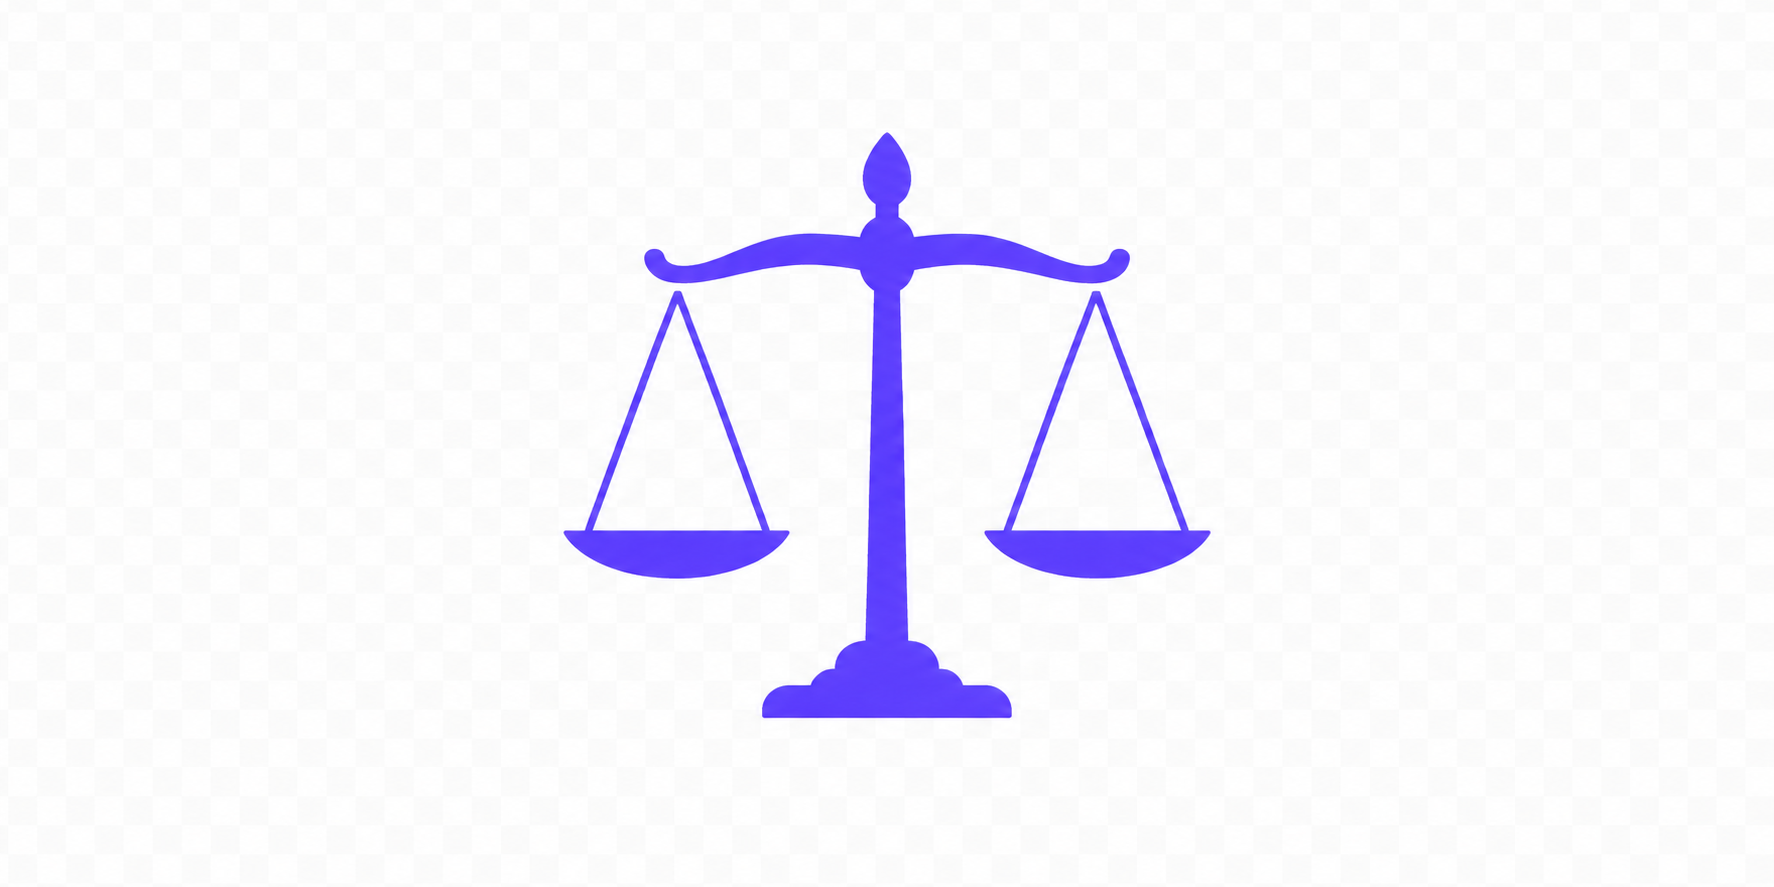
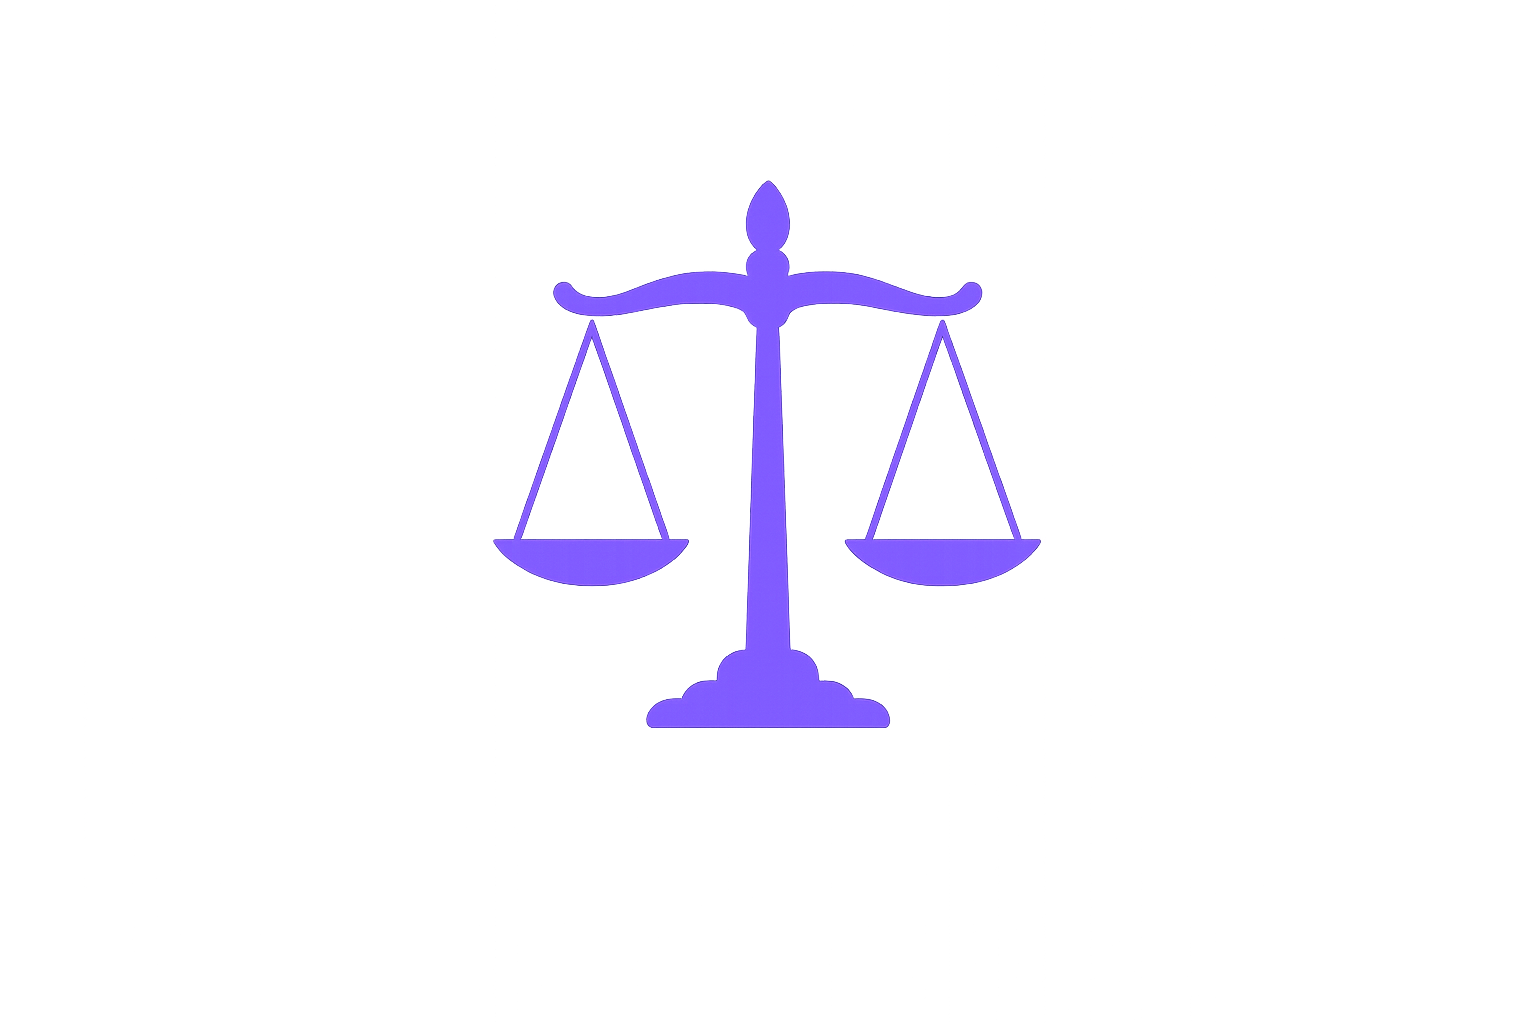
Services page: restore process numbers, remove phone; update law firm image
- Re-add the 01-04 numbers to the services "How we work" process
  steps (reverting the earlier removal).
- Remove the "Call / +61 400 000 000" phone block from the services
  page contact details (email-only, matching the rest of the site).
- Swap the homepage law firm case image to the new transparent
  version (replaces the old screenshot under the same clean filename
  assets/img/Law_Firm.png; updated width/height to 1536x1024).

https://claude.ai/code/session_01P7QZ4D6SizgD9RDskYCmxS

Changed region(s): [[0.3125, 0.1522, 0.6875, 0.8219]]

diff --git a/services.html b/services.html
@@ -136,18 +136,22 @@
 
     <div class="process">
       <div class="process__step">
+        <div class="process__num">01</div>
         <h3>Discover</h3>
         <p>We start with a working session, your brand, market, customer, current performance, and where you want to be in 12 months.</p>
       </div>
       <div class="process__step">
+        <div class="process__num">02</div>
         <h3>Strategy</h3>
         <p>A short, opinionated document. What we'd run, where we'd focus first, what success looks like, and what it'll cost.</p>
       </div>
       <div class="process__step">
+        <div class="process__num">03</div>
         <h3>Build & launch</h3>
         <p>Whether it's an account rebuild, a video shoot, or a new site, we ship in tight iterations rather than waterfalling.</p>
       </div>
       <div class="process__step">
+        <div class="process__num">04</div>
         <h3>Test & scale</h3>
         <p>Weekly reviews, monthly strategy. We test our way to scale rather than guessing, and you'll always know what we changed and why.</p>
       </div>
@@ -166,10 +170,6 @@
           <div>
             <h4>Email</h4>
             <a href="mailto:admin@oleo.com.au">admin@oleo.com.au</a>
-          </div>
-          <div>
-            <h4>Call</h4>
-            <a href="tel:+61400000000">+61 400 000 000</a>
           </div>
         </div>
       </div>

diff --git a/index.html b/index.html
@@ -309,7 +309,7 @@
         <div class="case__visual-tag">Web Development, Legal</div>
         <div class="case__visual-inner">
           <a href="work/law-firm.html" class="case__horse" aria-label="Read the WA law firm case study">
-            <img src="assets/img/Law_Firm.png" alt="" width="1774" height="887">
+            <img src="assets/img/Law_Firm.png" alt="" width="1536" height="1024">
             <span class="case__horse-flair" aria-hidden="true"><svg viewBox="0 0 30 30" fill="none"><line x1="20" y1="6" x2="23" y2="1"/><line x1="25" y1="11" x2="29" y2="9"/><line x1="26" y1="17" x2="30" y2="17"/></svg></span>
           </a>
         </div>
